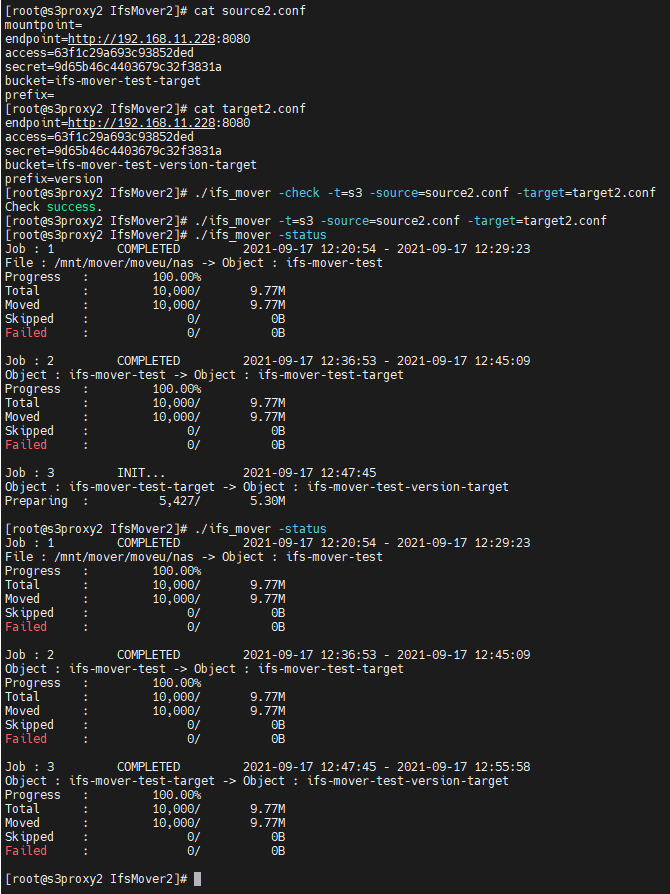
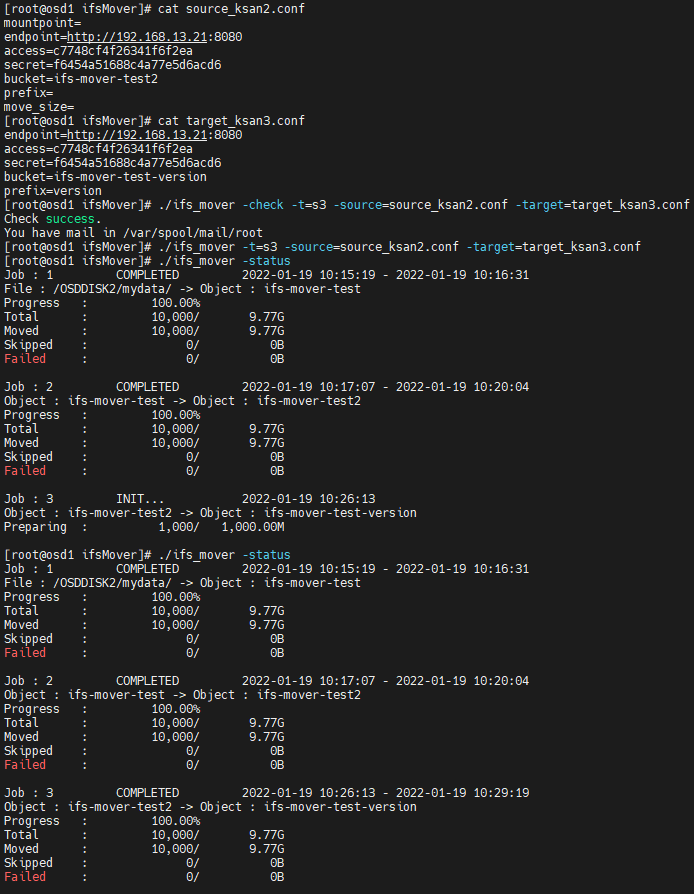
readme 수정

Changed region(s): [[0.0, 0.0, 1.0, 0.9966], [0.7164, 0.5436, 0.7463, 0.5738], [0.6567, 0.5436, 0.6866, 0.5738]]

diff --git a/README.md b/README.md
@@ -10,16 +10,17 @@
 * NAS(SMB/NFS) / Local 파일시스템의 파일을 InfiniStor 또는 KSAN으로 이관 지원
 * AWS S3의 오브젝트를 InfiniStor 또는 KSAN으로 이관 지원
 * NAS(SMB/NFS) / Local 파일시스템의 파일을 AWS S3로 이관 지원
+* openstack Swift의 오브젝트를 InfiniStor 또는 KSAN으로 이관 지원 - Version 3 Authentication 지원
 * 재수행 옵션(-rerun)을 통해 소스 경로의 신규 및 수정된 오브젝트 및 파일만 추가로 이관하는 기능 제공
 * 상태 확인 옵션(-status)을 통해 현재 수행 중인 이관 작업의 상태를 실시간으로 모니터링 가능 
 * 수행 쓰레드 수 지정 옵션(-thread=`number`)을 통해 이관 작업 부하 및 성능 제어 가능
 
 ### 실행 옵션
 ```sh
-ifs_mover -t=s3 | nas –source=source.conf -target=target.conf -o=ea,perm,time -thread=10 
+ifs_mover -t=s3|file|swift –source=source.conf -target=target.conf -o=ea,perm,time -thread=10 
 Usage : ifs_mover [OPTION] ...
 Move Objects
-        -t=nas|s3               source type, NAS or S3
+        -t=file|s3|swift        source type, FILE(NAS) or S3 or SWIFT
         -source=source.conf     source configuration file path
         -target=target.conf     target configuration file path
         -o=ea,perm,time         object meta info
@@ -41,7 +42,7 @@ Rerun
         -thread=                     thread count
 Check
         -check                  check source and target configuration
-        -t=nas|s3               source type, NAS or S3
+        -t=file|s3|swift        source type, FILE(NAS) or S3 or SWIFT
         -source=source.conf     source configuration file path
         -target=target.conf     target configuration file path
 Status Job
@@ -55,6 +56,14 @@ source.conf
         bucket                  bucket name
         prefix                  PREFIX DIR name from which to start the MOVE
         move_size               The size of the file that you can move at once. (M bytes)
+        user_name               user name for swift
+        api_key                 api key for swift
+        auth_endpoint           http(https)://IP:port/v3 authentication endpoint for swift
+        domain_id               domain id for swift
+        domain_name             domain name for swift
+        project_id              project id for swift
+        project_name            project name for swift
+        container               list of containers(If it is empty, it means all container)
 target.conf
         endpoint                http(https)://IP:Port | region
         access                  Access Key ID
@@ -67,9 +76,11 @@ target.conf
 ## 실행 예시(CLI-Linux)
 ### 설정 파일 체크
 ```sh
-ifs_mover -check -t=nas -source=source.conf -target=target.conf
+ifs_mover -check -t=file -source=source.conf -target=target.conf
 or
 ifs_mover -check -t=s3 -source=source.conf -target=target.conf
+or
+ifs_mover -check -t=swift -source=source.conf -target=target.conf
 ```
 
 ### AWS S3 -> InfiniStor/KSAN 이관 작업 등록 및 실행
@@ -79,7 +90,7 @@ ifs_mover -t=s3 -source=source.conf -target=target.conf -thread=4
 
 ### NAS -> InfiniStor/KSAN 이관 작업 등록 및 실행
 ```sh
-ifs_mover -t=nas -source=source.conf -target=target.conf -thread=4
+ifs_mover -t=file -source=source.conf -target=target.conf -thread=4
 ```
 
 ### Job ID가 1로 배정된 이관 작업을 재수행 
@@ -114,11 +125,19 @@ ifs_mover -jobremove=1
 source.conf 
     mountpoint:     mountPoint
     endpoint:       http(https)://IP:Port | region
-    access:     Access Key ID
-    secret:     Secret Access Key
-    bucket:     Bucket Name
-    prefix:     MOVE를 시작할 PREFIX/DIR 이름 정보
-    move_size:  The size of the file that you can move at once. (M bytes)
+    access:         Access Key ID
+    secret:         Secret Access Key
+    bucket:         Bucket Name
+    prefix:         MOVE를 시작할 PREFIX/DIR 이름 정보
+    move_size:      The size of the file that you can move at once. (M bytes)
+    user_name       user name for swift
+    api_key         api key for swift
+    auth_endpoint   http(https)://IP:port/v3
+    domain_id       domain id for swift
+    domain_name     domain name for swift
+    project_id      project id for swift
+    project_name    project name for swift
+    container       list of containers (If it is empty, it means all container)
 ```
 
 * endpoint : protocol(http|https):// IP:Port | region (AWS)
@@ -135,7 +154,7 @@ target.conf
 
 ### 설정 파일 예시
 
-#### nas -> S3 (/mnt/volume01/move_old_objects/* -> /move-test/*)
+#### file(NAS) -> S3 (/mnt/volume01/move_old_objects/* -> /move-test/*)
 ```sh
 source.conf 
     mountpoint=/mnt/volume01/
@@ -154,7 +173,7 @@ target.conf
     prefix=
 ```
 
-#### nas -> S3 (AWS) (/mnt/volume01/move_old_objects/* -> /move-test/2021_07_20/*)
+#### file(NAS) -> S3 (AWS) (/mnt/volume01/move_old_objects/* -> /move-test/2021_07_20/*)
 ```sh
 source.conf 
     mountpoint=/mnt/volume01/
@@ -249,28 +268,86 @@ target.conf
     prefix=
 ```
 
+#### SWIFT -> S3 (사용자의 test_container/*, test-big-size/* -> /test-container/*, test-big-size/*)
+```sh
+source.conf
+mountpoint=
+endpoint=
+access=
+secret=
+bucket=
+prefix=
+move_size=
+user_name=admin
+api_key=9c7d08adb7414a8a
+auth_endpoint=http://192.168.13.188:5000/v3
+domain_id=default
+domain_name=
+project_id=9327b0988cab4d5c84e297345a4f3c67
+project_name=
+container=test_container,test-big-size
+
+target.conf
+endpoint=http://192.168.13.21:8080
+access=DSDISDSDLKJD98KDA55QFQ
+secret=BdsDsSDsdDSDjksdkTBEFjgUIZav0kFG
+bucket=
+prefix=
+```
+
+#### SWIFT -> S3 (사용자의 모든 containers -> /container1, contatiner2, ...)
+```sh
+source.conf
+mountpoint=
+endpoint=
+access=
+secret=
+bucket=
+prefix=
+move_size=
+user_name=admin
+api_key=9c7d08adb7414a8a
+auth_endpoint=http://192.168.13.188:5000/v3
+domain_id=default
+domain_name=
+project_id=9327b0988cab4d5c84e297345a4f3c67
+project_name=
+container=
+
+target.conf
+endpoint=http://192.168.13.21:8080
+access=DSDISDSDLKJD98KDA55QFQ
+secret=BdsDsSDsdDSDjksdkTBEFjgUIZav0kFG
+bucket=
+prefix=
+```
+
 ### 실행 예시
 #### Job1 - NAS to InfiniStor/KSAN
-* NAS 마운트 포인트(/mnt/mover/moveu/)에서 InfiniStor(ifs-mover-test)로 전체 데이터 마이그레이션 수행
+* NAS 마운트 포인트(/OSDDISK2/mydata/)에서 InfiniStor(ifs-mover-test)로 전체 데이터 마이그레이션 수행
 ![](/images/sample1.png)
 
 #### Job2 - InfiniStor to InfiniStor/KSAN
-* InfiniStor(ifs-mover-test)에서 InfiniStor(ifs-mover-test-target)로 전체 데이터 마이그레이션 수행
+* InfiniStor(ifs-mover-test)에서 InfiniStor(ifs-mover-test2)로 전체 데이터 마이그레이션 수행
 ![](/images/sample2.png)
 
 #### Job3 - InfiniStor to InfiniStor/KSAN
-* InfiniStor(ifs-mover-test-target)에서 InfiniStor(ifs-mover-test-version-target/version)로 전체 데이터 마이그레이션 수행 (Version 정보 포함)
+* InfiniStor(ifs-mover-test2)에서 InfiniStor(ifs-mover-test-version/version)로 전체 데이터 마이그레이션 수행 (prefix:version)
 ![](/images/sample3.png)
+
+#### RERUN Job1 - NAS to InfiniStor/KSAN (RERUN)
+* NAS 마운트 포인트(/OSDDISK2/mydata/)에서 InfiniStor(ifs-mover-test)로 추가된 데이터만 마이그레이션 수행
 ![](/images/sample4.png)
 
-#### Job4 - NAS to InfiniStor/KSAN (RERUN)
-* NAS 마운트 포인트(/mnt/mover/moveu/aws/)에서 AWS S3(new-bucket-test-mover-07-20)로 추가된 데이터만 마이그레이션 수행
+#### Job4 - AWS S3 to InfiniStor/KSAN (Versioning)
+* AWS S3(heoks-mover-test-versioning)에서 InfiniStor(ifs-mover-test-version-from-s3)로 전체 데이터 마이그레이션 수행 (Versioning 포함)
 ![](/images/sample5.png)
-
-#### Job5 - AWS S3 to InfiniStor/KSAN
-* AWS S3(new-bucket-test-mover-07-20)에서 InfiniStor(ifs-mover-test-version-target/version/from-aws0805)로 전체 데이터 마이그레이션 수행
 ![](/images/sample6.png)
 
+#### Job5 - Swift to InfiniStor/KSAN
+* Swift(test_container)에서 InfiniStor(test-container)로 전체 데이터 마이그레이션 수행
+![](/images/sample7.png)
+![](/images/sample8.png)
 
 ## Windows 실행 예시
 * python이 설치되어 있어야 합니다.
@@ -279,7 +356,7 @@ target.conf
 * 네트워크 드라이브를 T: 로 설정한 경우
 ![](/images/network_driver.png)
 
-#### nas -> S3 (T:/source_data/* -> /move-test/*)
+#### file(NAS) -> S3 (T:/source_data/* -> /move-test/*)
 ```sh
 source.conf 
     mountpoint=T:/source_data
@@ -316,17 +393,29 @@ source.conf
 
 #### 설정 파일 체크
 ```sh
-python ifs_mover -check -t=nas -source=source.conf -target=target.conf -thread=4
+python ifs_mover -check -t=file -source=source.conf -target=target.conf -thread=4
 ```
 #### 실행
 ```sh
-python ifs_mover -t=nas -source=source.conf -target=target.conf -thread=4
+python ifs_mover -t=file -source=source.conf -target=target.conf -thread=4
 ```
 
 #### 주의사항
 * Windows에서는 ifs_mover 앞에 python을 붙여주어야 합니다.
+* swift의 objects를 옮기는 경우, target.conf에 bucket을 지정하지 않습니다. container의 이름을 사용합니다.
+* swift의 container가 S3 bucket naming rule에 맞지 않는 경우에는 자동으로 bucket 명을 변경합니다.
 
-
+#### swift container -> S3 bucket 이름 규칙
+* container 이름을 소문자로 변경합니다.
+* container 이름 길이가 3보다 작은 경우 'ifs-' 를 앞에 붙입니다.
+* container 이름 길이가 63보다 큰 경우 63자까지만 bucket 이름으로 사용합니다.
+* '.' or '-' 로 container 이름이 시작하는 경우 '.' or '-' 문자를 버립니다.
+* '.' or '-' 로 container 이름이 끝나는 경우 '.' or '-' 문자를 버립니다.
+* 'xn--'으로 container 이름이 시작하는 경우 'xn--' 문자열을 버립니다.
+* '-s3alias'으로 container 이름이 끝나는 경우 '-s3alias' 문자열을 버립니다.
+* '_'(under score)가  container 이름에 포함된 경우 '-'(dash)로 변경합니다.
+* '..' or '.-' or '-.'이 container 이름에 포함된 경우 '..' or '.-' or '-.' 문자열을 버립니다.
+* 위의 규칙으로도 S3 bucket 이름에 규칙에 맞지 않는 경우 동작하지 않습니다.
 
 ## DB Schema
 ![](/images/heoks_ifs_mover_db_5.png)
@@ -350,6 +439,8 @@ python ifs_mover -t=nas -source=source.conf -target=target.conf -thread=4
 * org.junit.jupiter : junit-jupiter-engine : 5.6.2
 * commons-io : commons-io : 2.11.0
 * javax.xml.bind : jaxb-api : 2.3.0
+* com.github.openstack4j.core : openstack4j : 3.3
+* com.googlecode.json-simple : json-simple : 1.1.1
 
 ## 구동 환경
 
